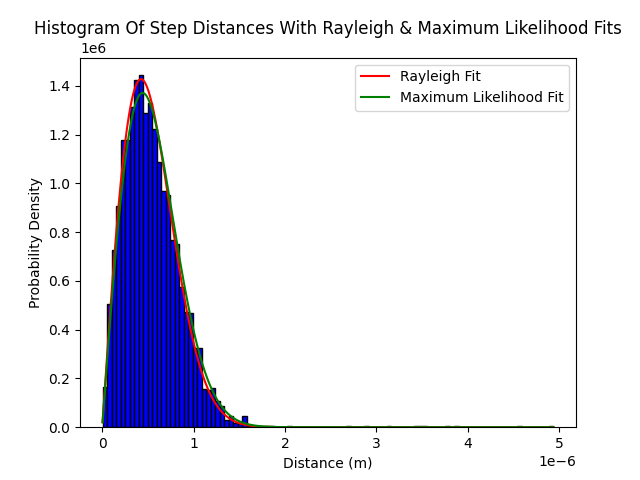
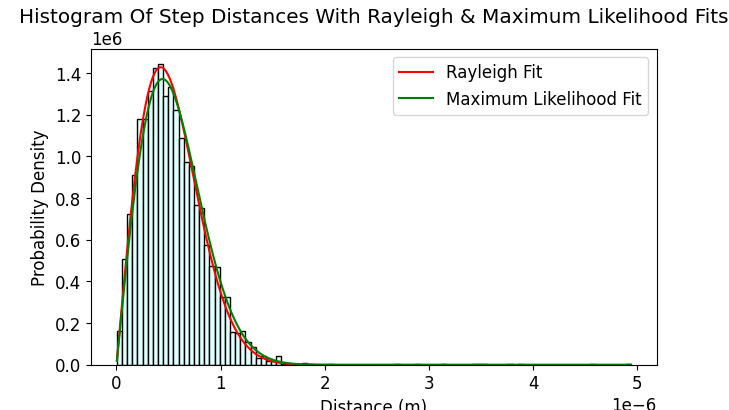
final updates

diff --git a/data_analysis.py b/data_analysis.py
@@ -8,7 +8,6 @@ import fit_black_box as bb
 import math
 from scipy.optimize import curve_fit
 
-
 # Constants
 r = uncertainties.ufloat(9.5e-7, 5e-8) # bead radius, divided by 2.  [m]
 eta = uncertainties.ufloat(0.001, 0.00005) # viscosity, g/(cm*s) started out at 0.01 +/- 0.0005 P, and 1 Pa*s = 10 P. So 1 Pa*s = 1000 centipoise 
@@ -20,14 +19,13 @@ gamma = 6 * math.pi * eta_adjusted * r # drag coefficient
 print("Calculated Stokes Radius", gamma.n, "+/-", gamma.s)
 
 resolution = uncertainties.ufloat(0.1204e-6, 0.003e-6) # camera resolution
-# bead = uncertainties.ufloat(2.0e-6, 0.1e-6) # bead size
 step_size = uncertainties.ufloat(0.5, 0.03) # step size
 
 
 LIST_SIZE = 120 # 120 data points
 
+SOURCE  = "C:\\Users\\skynet\\lab_data" 
 SOURCE  = "C:\\Users\\compl\\Documents\\Engineering Science\\Y2S2\\PHY294H1\\Labs\\L3+4\\good_data"
-
 
 def adsubprop(series1, series2, unc1, unc2):
     if series1 is None:
@@ -81,6 +79,8 @@ def get_x2_series(df):
 def linear(x, m, b):
     return m*x + b 
 
+def linear2(x, m):
+    return m*x 
 
 def rayleigh(r, D):
     t = step_size.n
@@ -97,11 +97,7 @@ def get_distances(df):
         distances.append(math.sqrt((x_series[i] - x_series[i-1])**2 + (y_series[i] - y_series[i-1])**2))
     return distances
 
-
 filenames = os.listdir(SOURCE)
-# everything in good-data folder
-
-# Load the data, skipping the header row
 
 x2_avg = [] # average x^2 values
 
@@ -114,25 +110,13 @@ s_unc = None
 
 for filename in filenames:
     df = pd.read_csv(os.path.join(SOURCE, filename), delimiter="\t", skiprows=1)
-    # print("Number of rows", len(df), "for", filename)
     df = normalize(df)
     df = conversion(df)
-    # calculate x^2 and uncertainty 
     x2 = df.iloc[:, 0] * df.iloc[:, 0]
     x2_uncertainty = 2 * abs(df.iloc[:, 0]) * df.iloc[:, 2] # so much bigger than camera uncertainty ignore it
-    # x2 = (df.iloc[:, 0] * resolution.n) * (df.iloc[:, 0] * resolution.n)
-    # x2_uncertainty = 2 * resolution.n * df.iloc[:, 0] * 1e-7 # so much bigger than camera uncertainty ignore it 
-
     s_total, s_unc = adsubprop(s_total, x2, s_unc, x2_uncertainty)
-
-    # s = get_x2_series(df) / len(filenames)
     distances.extend(get_distances(df)) # this is just - add the distances to the list
-    ''''
-    if s_total is None:
-        s_total = s
-    else:
-        s_total += s'
-    '''
+
 LIST_SIZE = len(s_total)
 
 s_total = s_total / len(filenames)
@@ -143,18 +127,10 @@ s_unc[s_unc == 0] = 1e-14
 # print(s_total)
 # print(s_unc)
 # print(distances)
-""" 
 
 guesses = [(4.88e-13, 0)]
 
 titles = ["X-Squared vs, Time for Beads"]
-
-# for x in [10,20,30,40,50,60,70,80,90,100]:
-#     titles.append("Radians as a function of time for an initial angle of 20 degrees and length of " + str(x) + " cm")
-#     if x != 70:
-#         titles.append("Radians as a function of time for an initial angle of 20 degrees and length of " + str(x) + " cm")
-
-# here this is the theta vs time graph, x = time, y = theta/amplitude
 
 labels = [("Time (s)", "X-Squared (m^2)")]
 functions = [linear]
@@ -162,15 +138,13 @@ functions = [linear]
 time = np.array([i * step_size.n for i in range(0, LIST_SIZE)])
 time_unc = np.array([step_size.s] * LIST_SIZE)
 
-# print(time)
-# print(time_unc)
-
 i = 0
 init_guess = guesses[i]
 font_size = 12
 xlabel = labels[i][0]
 ylabel = labels[i][1]
 title = titles[i]
+
 
 popt, puncert = bb.plot_fit(functions[i], time, s_total, time_unc, s_unc, init_guess=init_guess, font_size=font_size,
             xlabel=xlabel, ylabel=ylabel, title=title, filename=filename.replace(".txt", ".pdf"))
@@ -181,9 +155,13 @@ D_einstein = uncertainties.ufloat(popt[0], puncert[0]) / 2 # slope was 2D
 chi_squared = np.sum(((s_total - linear(time, *popt))**2 / s_unc**2))
 print("Chi squared: ", chi_squared)
 reduced_chi_square = chi_squared / (len(s_total) - len(popt))
-print(")
+print("Reduced chi squared:", reduced_chi_square)
  
- """
+D_einstein = uncertainties.ufloat(1.0207769625639054e-12/2, 1.2772905432650444e-14/2) # divide by 2 to get D
+print("D (Einstein): ", D_einstein.n, "+/-", D_einstein.s)
+k_einstein = D_einstein * gamma / T # k = D * gamma / T
+print("K (Einstein): ", k_einstein.n, "+/-", k_einstein.s)
+
 '''
 1.0207769625639054e-12 +/- 1.2772905432650444e-14
 -8.08275213086696e-13 +/- 1.4848420162119995e-13
@@ -192,12 +170,6 @@ R-squared: 0.9627819273532291
 No chi squared value 
 
 '''
-
-
-D_einstein = uncertainties.ufloat(1.0207769625639054e-12/2, 1.2772905432650444e-14/2) # divide by 2 to get D
-k_einstein = D_einstein * gamma / T # k = D * gamma / T
-print("K (Einstein): ", k_einstein.n, "+/-", k_einstein.s)
-
 # RAYLEIGH CURVE FITTING
 
 # DISTANCES HAS 119 DATA POINTS x 50 FILES = 5950 VALUES 
@@ -206,13 +178,11 @@ counts, bin_edges = np.histogram(distances, bins=100, density=True)  # `density=
 bin_centers = (bin_edges[:-1] + bin_edges[1:]) / 2  # Compute bin centers
 # print("Bin centers:", bin_centers)
 # print("Counts:", counts)
-# why are the counts so large? they go up to 1M and have fractional values. there are 5950 values 
-# EDIT: they're like that as density=True adjusts them so that the integral is 1
 
-# Fit the Gaussian model to the histogram data
 popt, pcov = curve_fit(rayleigh, bin_centers, counts, p0=[2.44e-13])  # Initial guess for D, based on calculated viscosity, known T, and k = 1.38 * 10^-23
 puncert = np.sqrt(np.diagonal(pcov))
 D_rayleigh = uncertainties.ufloat(popt[0], puncert[0])
+print("D (Rayleigh): ", D_rayleigh.n, "+/-", D_rayleigh.s)
 k_rayleigh = D_rayleigh * gamma / T # k = D * gamma / T
 print("K (Rayleigh): ", k_rayleigh.n, "+/-", k_rayleigh.s)
 '''
@@ -220,19 +190,12 @@ D = 4.968 * 10^-17 +/- 1.928 * 10^-17
 
 No chi square 
 ''' 
-""" 
-invalid: no uncertainty 
-chi_squared = np.sum(((counts - rayleigh(bin_centers, *popt))**2 / counts))
-print("Chi squared: ", chi_squared)
-reduced_chi_squared = chi_squared / (len(counts) - len(popt))
-print("Reduced Chi squared: ", reduced_chi_squared) """
 
 residuals = counts - rayleigh(bin_centers, *popt)  # Calculate residuals
 y_mean = np.mean(counts)
 ss_total = np.sum((counts - y_mean) ** 2)
 ss_residual = np.sum(residuals ** 2)
 r_squared = 1 - (ss_residual / ss_total)
-# https://saturncloud.io/blog/quantifying-the-quality-of-curve-fit-using-python-scipy/
 
 print("R^2 = {:.3f}".format(r_squared))
 
@@ -244,6 +207,7 @@ graph_1y_values = rayleigh(graph_1x_values, *popt)
 distances_squared = np.array(distances) ** 2
 estimated_twodt = np.sum(distances_squared) / (2 * len(distances))
 D_max_likelihood = estimated_twodt / (2 * step_size)
+print("D (Maximum Likelihood): ", D_max_likelihood.n, "+/-", D_max_likelihood.s)
 k_max_likelihood = D_max_likelihood * gamma / T # k = D * gamma / T
 print("K (Maximum Likelihood): ", k_max_likelihood.n, "+/-", k_max_likelihood.s)
 
@@ -256,7 +220,8 @@ todo: use the black box, or find some other way of plotting the stuff on.
 graph_2x_values = np.linspace(min(bin_edges), max(bin_edges), 1000)
 graph_2y_values = rayleigh(graph_2x_values, D_max_likelihood.n)
 
-plt.hist(distances, bins=100, density=True, color='blue', edgecolor='black')  # Set bins to 20
+
+plt.hist(distances, bins=100, density=True, color='lightcyan', edgecolor='black')  # Set bins to 20
 plt.plot(graph_1x_values, graph_1y_values, color='red', label='Rayleigh Fit')
 plt.plot(graph_2x_values, graph_2y_values, color='green', label='Maximum Likelihood Fit')
 plt.xlabel('Distance (m)')
@@ -265,28 +230,7 @@ plt.title('Histogram Of Step Distances With Rayleigh & Maximum Likelihood Fits')
 plt.legend()
 plt.show()
 
-
 """ 
-def pre_process(df):
-    x_series = df.iloc[:, 0]
-    x_series -= x_series[0]
-    x_series = x_series * x_series 
-
-    y_series = df.iloc[:, 1]
-    y_series -= y_series[0]
-    y_series = y_series * y_series
-
-    return x_series.tolist(), y_series.tolist()
-
-# Extract columns into lists
-# xs = x_series.tolist()
-# ys = y_series.tolist()
-
-
-
-
-# print(xs[:5], ys[:5])  # Print first few values to check
-
 Constants-
 
 assume it's a sphere: 
